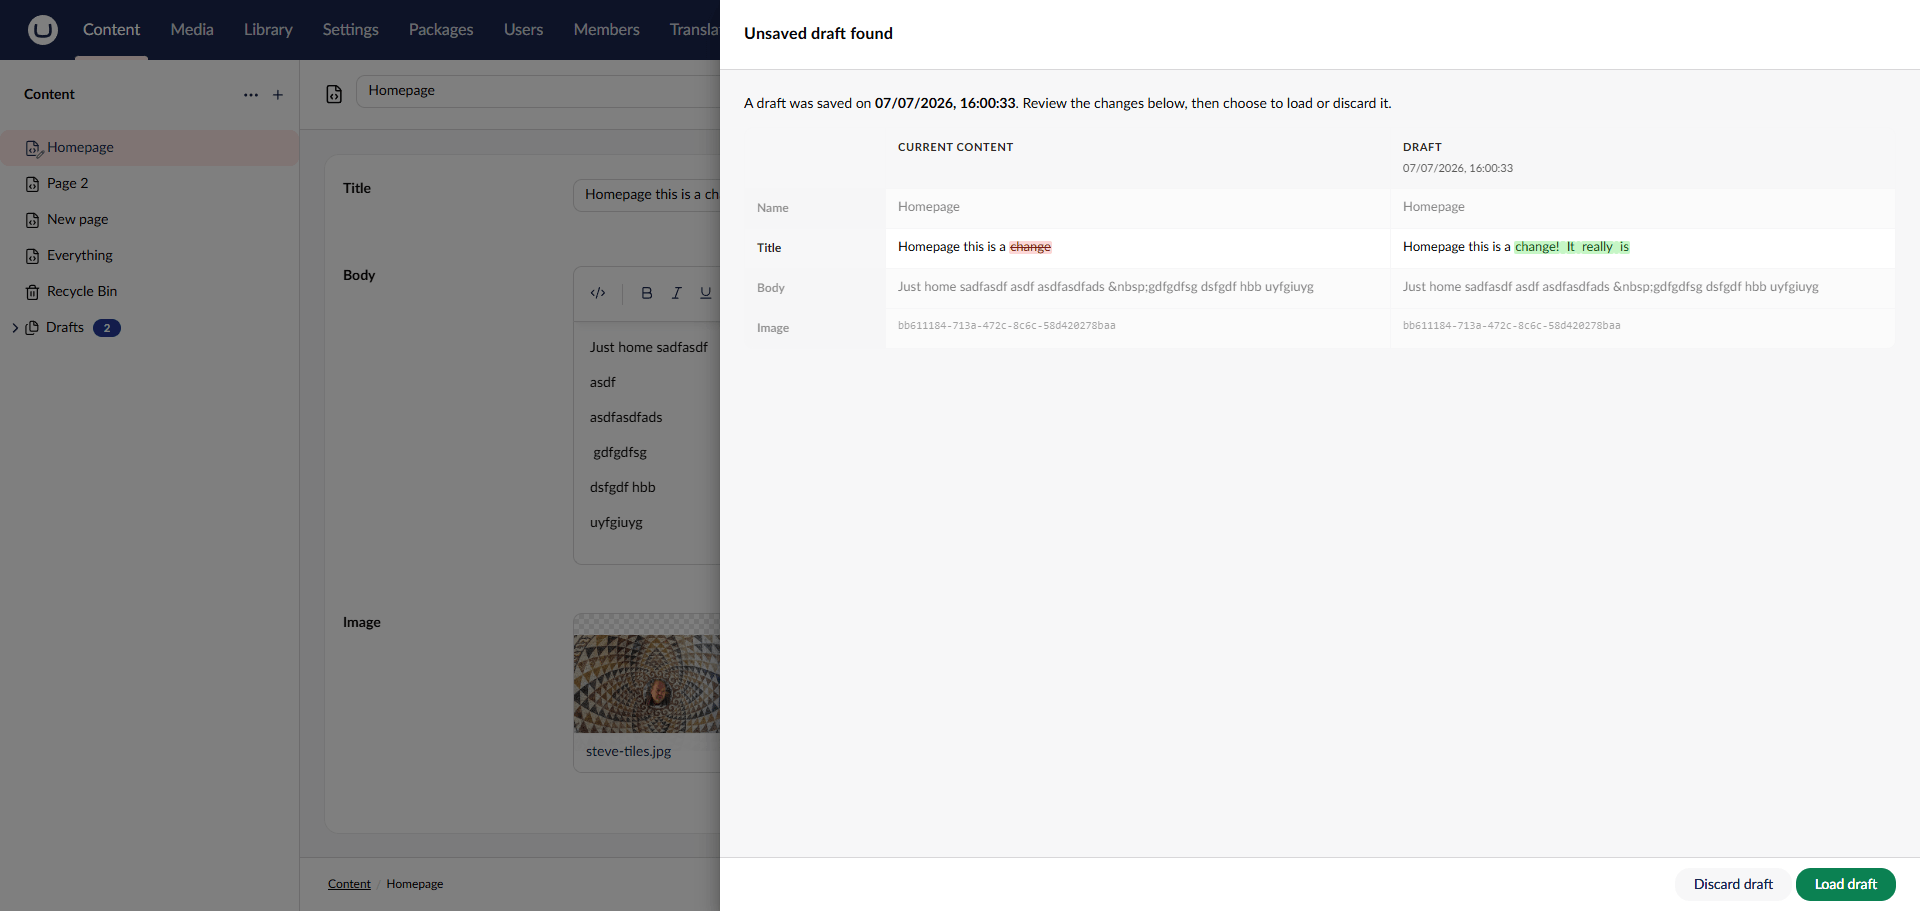
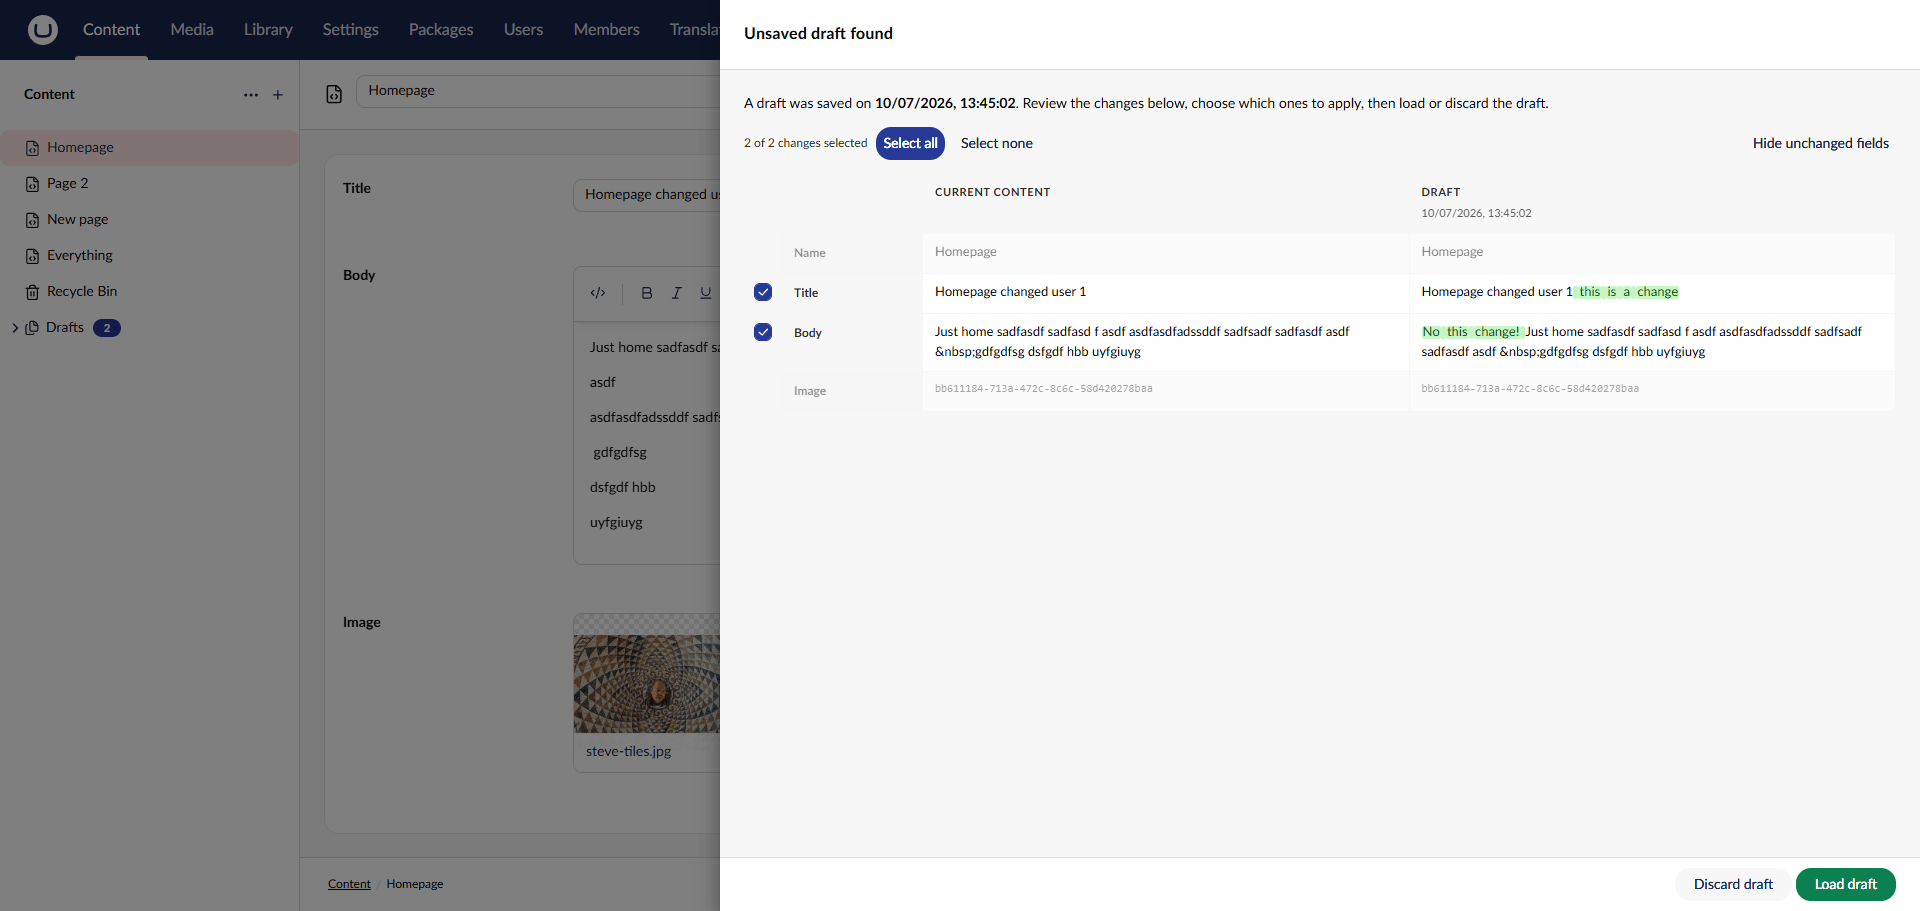
Update screenshots, don't show diff modal when there are no changes

diff --git a/src/Umbraco.Community.Drafts/Client/src/workspaceactions/draft-diff.ts b/src/Umbraco.Community.Drafts/Client/src/workspaceactions/draft-diff.ts
@@ -1,0 +1,151 @@
+import { buildValueKey, buildVariantKey } from "./draft-row-key.js";
+import type { DraftContent } from "./draft-diff-modal.token.js";
+
+export interface DraftDiffRow {
+  key: string;
+  alias: string;
+  currentStr: string;
+  draftStr: string;
+  changed: boolean;
+  currentMediaKeys: string[];
+  draftMediaKeys: string[];
+}
+
+export function extractMediaKeys(value: unknown): string[] {
+  if (!value) return [];
+  if (Array.isArray(value)) return value.flatMap((v) => extractMediaKeys(v));
+  if (typeof value === 'object' && value !== null) {
+    const key = (value as any).mediaKey;
+    if (typeof key === 'string') return [key];
+  }
+  return [];
+}
+
+/** Converts a property alias to a human-friendly label */
+export function formatAlias(alias: string): string {
+  return alias
+    .replace(/[-_]/g, ' ')                      // kebab-case / snake_case → spaces
+    .replace(/([a-z])([A-Z])/g, '$1 $2')        // camelCase → words
+    .replace(/\b\w/g, (c) => c.toUpperCase())   // title-case each word
+    .trim();
+}
+
+/** Converts a raw property value to a human-readable string */
+export function formatValueFriendly(value: unknown): string {
+  if (value === null || value === undefined) return "(empty)";
+
+  if (typeof value === "boolean") return value ? "Yes" : "No";
+  if (typeof value === "number") return String(value);
+
+  if (typeof value === "string") {
+    if (!value) return "(empty)";
+    // Strip HTML tags (e.g. simple richtext stored as string)
+    const stripped = value.replace(/<[^>]*>/g, " ").replace(/\s+/g, " ").trim();
+    return stripped || "(empty)";
+  }
+
+  if (Array.isArray(value)) {
+    if (value.length === 0) return "(empty)";
+    // Media picker array
+    if (value[0]?.mediaKey !== undefined)
+      return value.map((v: any) => v.mediaKey ?? "(unknown)").join("\n");
+    // Content picker array
+    if (value[0]?.contentKey !== undefined)
+      return value.map((v: any) => v.contentKey ?? "(unknown)").join("\n");
+    // Generic – recurse per item
+    return value.map((v) => formatValueFriendly(v)).join("\n");
+  }
+
+  if (typeof value === "object" && value !== null) {
+    const obj = value as Record<string, unknown>;
+
+    // Richtext stored as object with markup field
+    if (typeof obj["markup"] === "string") {
+      const stripped = obj["markup"].replace(/<[^>]*>/g, " ").replace(/\s+/g, " ").trim();
+      return stripped || "(empty)";
+    }
+    // Block editor (contentData array) — format each block's inner property
+    // values so edits inside a block (not just adding/removing blocks) are detected
+    if (Array.isArray(obj["contentData"])) {
+      const contentData = obj["contentData"] as Record<string, unknown>[];
+      const settingsData = Array.isArray(obj["settingsData"])
+        ? (obj["settingsData"] as Record<string, unknown>[])
+        : [];
+      if (contentData.length === 0) return "(empty)";
+
+      const formatBlockItem = (item: Record<string, unknown>): string => {
+        const props = Object.entries(item)
+          .filter(([k]) => k !== "key" && k !== "contentTypeKey" && k !== "udi")
+          .map(([k, v]) => `${formatAlias(k)}: ${formatValueFriendly(v)}`);
+        return props.length ? props.join("; ") : "(no properties)";
+      };
+
+      const blocks = contentData.map(
+        (item, i) => `Block ${i + 1}: ${formatBlockItem(item)}`
+      );
+      if (settingsData.length > 0) {
+        blocks.push(
+          ...settingsData.map(
+            (item, i) => `Settings ${i + 1}: ${formatBlockItem(item)}`
+          )
+        );
+      }
+      return blocks.join("\n");
+    }
+    // Single media / content picker
+    if (typeof obj["mediaKey"] === "string") return obj["mediaKey"];
+    if (typeof obj["contentKey"] === "string") return obj["contentKey"];
+    // Fallback: compact JSON
+    return JSON.stringify(value, null, 2);
+  }
+
+  return String(value);
+}
+
+/** Builds the per-row comparison between current content and a draft. */
+export function buildDiffRows(
+  current: DraftContent | undefined,
+  draft: DraftContent | undefined
+): DraftDiffRow[] {
+  const variantRows = (current?.variants ?? []).map((cv, i) => {
+    const dv = draft?.variants?.[i];
+    const currentStr = cv.name || "(empty)";
+    const draftStr = dv?.name || "(empty)";
+    const changed = currentStr !== draftStr;
+    return {
+      key: buildVariantKey(cv.culture ?? null, cv.segment ?? null),
+      alias: "Name",
+      currentStr,
+      draftStr,
+      changed,
+      currentMediaKeys: [] as string[],
+      draftMediaKeys: [] as string[],
+    };
+  });
+
+  const allAliases = new Set([
+    ...(current?.values ?? []).map((v) => v.alias),
+    ...(draft?.values ?? []).map((v) => v.alias),
+  ]);
+
+  const propertyRows = Array.from(allAliases).map((alias) => {
+    const currentVal = current?.values?.find((v) => v.alias === alias);
+    const draftVal = draft?.values?.find((v) => v.alias === alias);
+    const currentStr = formatValueFriendly(currentVal?.value);
+    const draftStr = formatValueFriendly(draftVal?.value);
+    const changed = currentStr !== draftStr;
+    const culture = currentVal?.culture ?? draftVal?.culture ?? null;
+    const segment = currentVal?.segment ?? draftVal?.segment ?? null;
+    return {
+      key: buildValueKey(alias, culture, segment),
+      alias: formatAlias(alias),
+      currentStr,
+      draftStr,
+      changed,
+      currentMediaKeys: extractMediaKeys(currentVal?.value),
+      draftMediaKeys: extractMediaKeys(draftVal?.value),
+    };
+  });
+
+  return [...variantRows, ...propertyRows];
+}

diff --git a/src/Umbraco.Community.Drafts/Client/src/workspaceactions/draft-diff-modal.element.ts b/src/Umbraco.Community.Drafts/Client/src/workspaceactions/draft-diff-modal.element.ts
@@ -9,8 +9,7 @@ import {
 } from "@umbraco-cms/backoffice/external/lit";
 import { UmbLitElement } from "@umbraco-cms/backoffice/lit-element";
 import { UMB_AUTH_CONTEXT, type UmbAuthContext } from "@umbraco-cms/backoffice/auth";
-import type { DraftDiffModalData } from "./draft-diff-modal.token.js";
-import { buildValueKey, buildVariantKey } from "./draft-row-key.js";
+import { buildDiffRows, extractMediaKeys } from "./draft-diff.js";
 
 type DiffToken = { text: string; type: "same" | "added" | "removed" };
 
@@ -76,16 +75,6 @@ export class DraftsDiffModalElement extends UmbLitElement {
     this._selectedKeys = new Set();
   }
 
-  #extractMediaKeys(value: unknown): string[] {
-    if (!value) return [];
-    if (Array.isArray(value)) return value.flatMap((v) => this.#extractMediaKeys(v));
-    if (typeof value === 'object' && value !== null) {
-      const key = (value as any).mediaKey;
-      if (typeof key === 'string') return [key];
-    }
-    return [];
-  }
-
   async #loadMediaUrls() {
     const current = this.modalContext?.data?.currentContent;
     const draft = this.modalContext?.data?.draftContent;
@@ -95,7 +84,7 @@ export class DraftsDiffModalElement extends UmbLitElement {
     ];
     const keys = new Set<string>();
     for (const val of allValues) {
-      for (const key of this.#extractMediaKeys(val)) keys.add(key);
+      for (const key of extractMediaKeys(val)) keys.add(key);
     }
     await Promise.all(
       [...keys].filter((k) => !this._mediaUrls.has(k)).map(async (key) => {
@@ -136,87 +125,6 @@ export class DraftsDiffModalElement extends UmbLitElement {
   #handleDiscard() {
     this.modalContext?.updateValue({ action: "discard" });
     this.modalContext?.submit();
-  }
-
-  /** Converts a property alias to a human-friendly label */
-  #formatAlias(alias: string): string {
-    return alias
-      .replace(/[-_]/g, ' ')                      // kebab-case / snake_case → spaces
-      .replace(/([a-z])([A-Z])/g, '$1 $2')        // camelCase → words
-      .replace(/\b\w/g, (c) => c.toUpperCase())   // title-case each word
-      .trim();
-  }
-
-  /** Converts a raw property value to a human-readable string */
-  #formatValueFriendly(value: unknown): string {
-    if (value === null || value === undefined) return "(empty)";
-
-    if (typeof value === "boolean") return value ? "Yes" : "No";
-    if (typeof value === "number") return String(value);
-
-    if (typeof value === "string") {
-      if (!value) return "(empty)";
-      // Strip HTML tags (e.g. simple richtext stored as string)
-      const stripped = value.replace(/<[^>]*>/g, " ").replace(/\s+/g, " ").trim();
-      return stripped || "(empty)";
-    }
-
-    if (Array.isArray(value)) {
-      if (value.length === 0) return "(empty)";
-      // Media picker array
-      if (value[0]?.mediaKey !== undefined)
-        return value.map((v: any) => v.mediaKey ?? "(unknown)").join("\n");
-      // Content picker array
-      if (value[0]?.contentKey !== undefined)
-        return value.map((v: any) => v.contentKey ?? "(unknown)").join("\n");
-      // Generic – recurse per item
-      return value.map((v) => this.#formatValueFriendly(v)).join("\n");
-    }
-
-    if (typeof value === "object" && value !== null) {
-      const obj = value as Record<string, unknown>;
-
-      // Richtext stored as object with markup field
-      if (typeof obj["markup"] === "string") {
-        const stripped = obj["markup"].replace(/<[^>]*>/g, " ").replace(/\s+/g, " ").trim();
-        return stripped || "(empty)";
-      }
-      // Block editor (contentData array) — format each block's inner property
-      // values so edits inside a block (not just adding/removing blocks) are detected
-      if (Array.isArray(obj["contentData"])) {
-        const contentData = obj["contentData"] as Record<string, unknown>[];
-        const settingsData = Array.isArray(obj["settingsData"])
-          ? (obj["settingsData"] as Record<string, unknown>[])
-          : [];
-        if (contentData.length === 0) return "(empty)";
-
-        const formatBlockItem = (item: Record<string, unknown>): string => {
-          const props = Object.entries(item)
-            .filter(([k]) => k !== "key" && k !== "contentTypeKey" && k !== "udi")
-            .map(([k, v]) => `${this.#formatAlias(k)}: ${this.#formatValueFriendly(v)}`);
-          return props.length ? props.join("; ") : "(no properties)";
-        };
-
-        const blocks = contentData.map(
-          (item, i) => `Block ${i + 1}: ${formatBlockItem(item)}`
-        );
-        if (settingsData.length > 0) {
-          blocks.push(
-            ...settingsData.map(
-              (item, i) => `Settings ${i + 1}: ${formatBlockItem(item)}`
-            )
-          );
-        }
-        return blocks.join("\n");
-      }
-      // Single media / content picker
-      if (typeof obj["mediaKey"] === "string") return obj["mediaKey"];
-      if (typeof obj["contentKey"] === "string") return obj["contentKey"];
-      // Fallback: compact JSON
-      return JSON.stringify(value, null, 2);
-    }
-
-    return String(value);
   }
 
   /** Word-level LCS diff. Falls back to whole-string if too large. */
@@ -292,52 +200,10 @@ export class DraftsDiffModalElement extends UmbLitElement {
   }
 
   #getDiff() {
-    const current: DraftDiffModalData["currentContent"] =
-      this.modalContext?.data?.currentContent;
-    const draft: DraftDiffModalData["draftContent"] =
-      this.modalContext?.data?.draftContent;
-
-    const variantRows = (current?.variants ?? []).map((cv, i) => {
-      const dv = draft?.variants?.[i];
-      const currentStr = cv.name || "(empty)";
-      const draftStr = dv?.name || "(empty)";
-      const changed = currentStr !== draftStr;
-      return {
-        key: buildVariantKey(cv.culture ?? null, cv.segment ?? null),
-        alias: "Name",
-        currentStr,
-        draftStr,
-        changed,
-        currentMediaKeys: [] as string[],
-        draftMediaKeys: [] as string[],
-      };
-    });
-
-    const allAliases = new Set([
-      ...(current?.values ?? []).map((v) => v.alias),
-      ...(draft?.values ?? []).map((v) => v.alias),
-    ]);
-
-    const propertyRows = Array.from(allAliases).map((alias) => {
-      const currentVal = current?.values?.find((v) => v.alias === alias);
-      const draftVal = draft?.values?.find((v) => v.alias === alias);
-      const currentStr = this.#formatValueFriendly(currentVal?.value);
-      const draftStr = this.#formatValueFriendly(draftVal?.value);
-      const changed = currentStr !== draftStr;
-      const culture = currentVal?.culture ?? draftVal?.culture ?? null;
-      const segment = currentVal?.segment ?? draftVal?.segment ?? null;
-      return {
-        key: buildValueKey(alias, culture, segment),
-        alias: this.#formatAlias(alias),
-        currentStr,
-        draftStr,
-        changed,
-        currentMediaKeys: this.#extractMediaKeys(currentVal?.value),
-        draftMediaKeys: this.#extractMediaKeys(draftVal?.value),
-      };
-    });
-
-    return [...variantRows, ...propertyRows];
+    return buildDiffRows(
+      this.modalContext?.data?.currentContent,
+      this.modalContext?.data?.draftContent
+    );
   }
 
   render() {

diff --git a/src/Umbraco.Community.Drafts/Client/src/workspaceactions/auto-save.element.ts b/src/Umbraco.Community.Drafts/Client/src/workspaceactions/auto-save.element.ts
@@ -13,6 +13,7 @@ import { UMB_MODAL_MANAGER_CONTEXT } from "@umbraco-cms/backoffice/modal";
 import { UMB_NOTIFICATION_CONTEXT } from "@umbraco-cms/backoffice/notification";
 import { DRAFT_DIFF_MODAL_TOKEN, type DraftDiffModalData, type DraftDiffModalValue } from "./draft-diff-modal.token.js";
 import { buildValueKey, buildVariantKey } from "./draft-row-key.js";
+import { buildDiffRows } from "./draft-diff.js";
 
 @customElement("drafts-auto-save-action")
 export default class DraftsAutoSaveElement extends UmbLitElement {
@@ -146,10 +147,24 @@ export default class DraftsAutoSaveElement extends UmbLitElement {
         if (!forceLoad) {
           const currentValues = this._workspaceContext?.getValues() ?? [];
           const currentVariants = this._workspaceContext?.getVariants() ?? [];
+          const currentContent = { values: currentValues as any, variants: currentVariants as any };
+
+          // If the draft is identical to the current content there is nothing
+          // to review — delete it quietly instead of showing the modal.
+          const hasChanges = buildDiffRows(currentContent, data).some((row) => row.changed);
+          if (!hasChanges) {
+            await fetch(`/umbraco/drafts/api/v1/drafts/${this._nodeKey}`, {
+              method: "DELETE",
+              credentials: "include",
+              headers,
+            });
+            window.dispatchEvent(new CustomEvent("drafts-updated"));
+            return;
+          }
 
           const result = await this._openDiffModal({
             savedAt: draft.savedAt,
-            currentContent: { values: currentValues as any, variants: currentVariants as any },
+            currentContent,
             draftContent: data,
           });
 